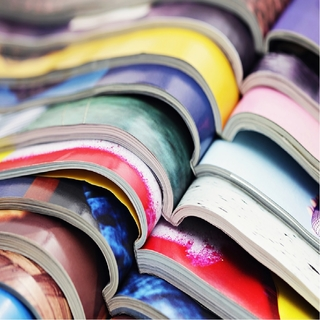
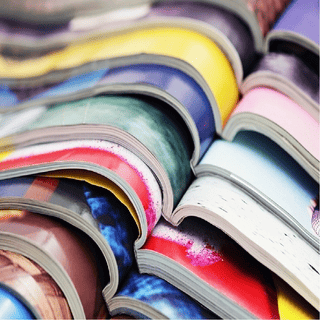
compression des images avec compressor.io

diff --git a/index.html b/index.html
@@ -179,7 +179,7 @@
 				</div>
 				<div class="row tight-width-whitespace portfolio-row">
 					<div class="col-sm-6">
-						<a href="#" data-lightbox="img/1.bmp" data-gallery-id="gallery-1"
+						<a href="#" data-lightbox="img/1.png" data-gallery-id="gallery-1"
 							data-caption="Refonte d'un site web pour un journal local" data-frame="snapshot-lb"><img
 								src="img/1.png" alt="photo de cahier ouvert en plusieurs colorie"
 								class="img-responsive portfolio-thumb" /></a>
@@ -191,7 +191,7 @@
 						</p>
 					</div>
 					<div class="col-sm-6">
-						<a href="#" data-lightbox="img/2.bmp" data-gallery-id="gallery-1"
+						<a href="#" data-lightbox="img/2.png" data-gallery-id="gallery-1"
 							data-caption="Création d'un site web pour photographes" data-frame="snapshot-lb"><img
 								src="img/2.png" class="img-responsive portfolio-thumb"
 								alt="Photo d'une photographe avec son apareil photo" /></a>
@@ -205,7 +205,7 @@
 				</div>
 				<div class="row tight-width-whitespace portfolio-row">
 					<div class="col-sm-6">
-						<a href="#" data-lightbox="img/3.bmp" data-gallery-id="gallery-1"
+						<a href="#" data-lightbox="img/3.png" data-gallery-id="gallery-1"
 							data-caption="Création d'un site internet pour un voyageur" data-frame="snapshot-lb"><img
 								src="img/3.png" class="img-responsive portfolio-thumb"
 								alt="Photo de differents outils pour enregistrer des videos ou des photos" /></a>
@@ -218,7 +218,7 @@
 						</p>
 					</div>
 					<div class="col-sm-6">
-						<a href="#" data-lightbox="img/4.bmp" data-gallery-id="gallery-1"
+						<a href="#" data-lightbox="img/4.png" data-gallery-id="gallery-1"
 							data-caption="Conception d'un site pour une agence de mariage" data-frame="snapshot-lb"><img
 								src="img/4.png" class="img-responsive portfolio-thumb"
 								alt="Photo de maquette de site web et d'un ordinateur pour le concevoir" /></a>

diff --git a/style.css b/style.css
@@ -860,7 +860,7 @@ h4 {
 }
 
 .bg-presentation {
-    background-image: url("img/image-de-presentation.bmp");
+    background-image: url("img/image-de-presentation.png");
 }
 
 @media (max-width: 1920px) {
